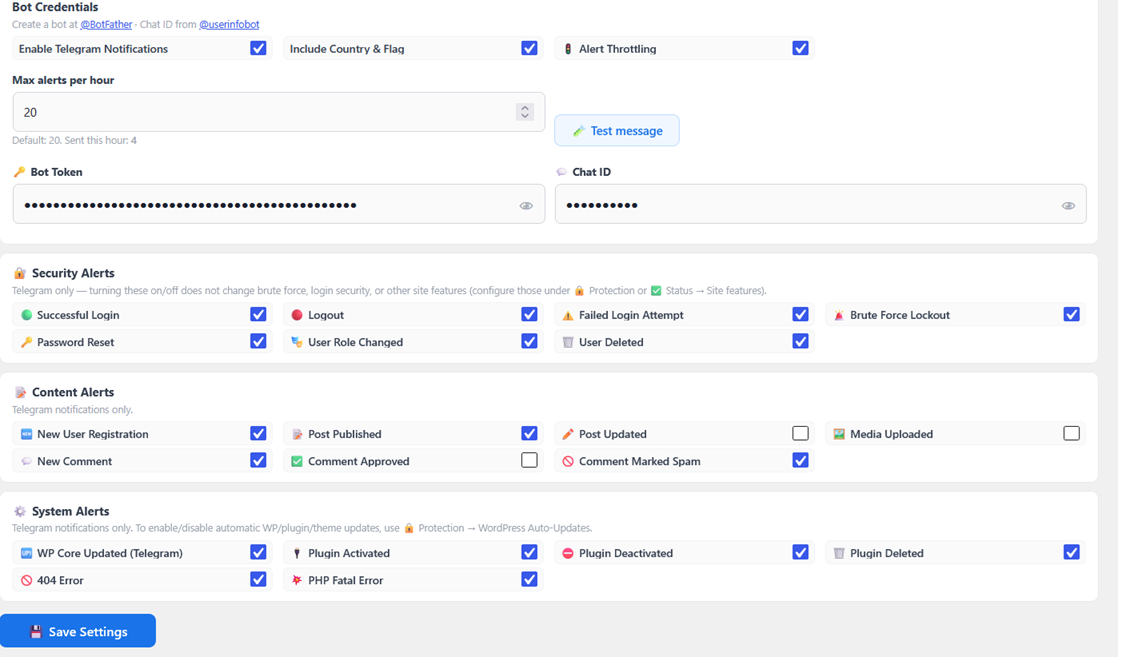
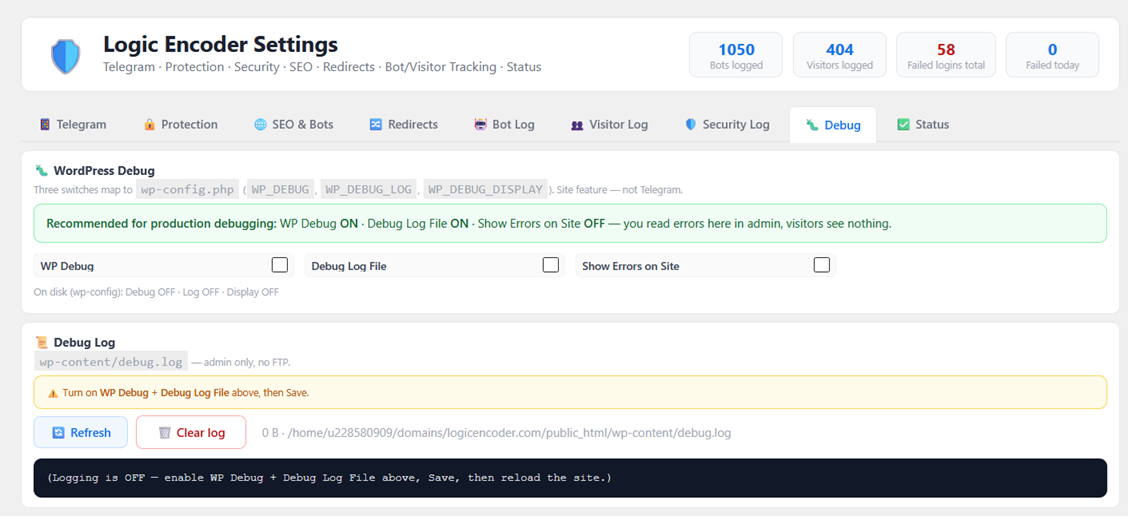
assets: AAA as featured, restore debug, drop status-site-info shot
Featured from AAA.png; debug back to original crop; remove lower Status
panel screenshot from README (prose only).

diff --git a/README.md b/README.md
@@ -168,8 +168,6 @@ On the **Status** tab, the same debug switches appear in the **Site features** g
 
 The lower **Status** card lists WordPress and PHP versions, memory limit and current usage, active theme and plugin count, database size, SSL state, debug flags as read from disk, cron mode (**visit-trigger disabled** when `DISABLE_WP_CRON` is set — system cron runs `wp-cron.php`), LE auto-update policy, timezone, log row counts with **unlimited retention**, last bot/visitor timestamps, failed logins today, active lockouts, Telegram throttle usage, your current IP (for whitelist copy-paste), and LE schema version.
 
-![Status — site information and log health](assets/status-site-info.png)
-
 ## Sibling products
 
 | Product | Relationship |